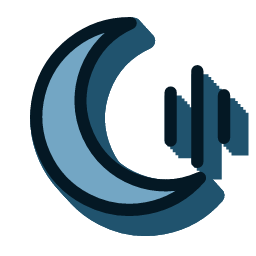
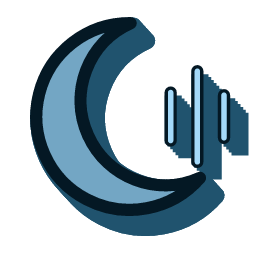
Refresh the crescent from Instrumenta d3f9c64: voice bars with a light core

Changed region(s): [[0.8438, 0.3438, 0.9062, 0.5625], [0.75, 0.25, 0.7812, 0.6562], [0.6562, 0.3438, 0.6875, 0.5625]]

diff --git a/app/static/brand/instrumenta-icons.js b/app/static/brand/instrumenta-icons.js
@@ -58,6 +58,7 @@
   // ---- Glyphs -------------------------------------------------------------------------------
   // A 48-unit grid. Class tokens say what each shape is, not how it looks:
   //   f / f2   fill areas (accent / light)       s      line (ink), solid  filled in ink
+  //   s2       a light core drawn inside an ink line, so a bar reads on a dark ground
   //   k0..k6   filled in another product's colour, in catalogue order after Instrumenta
   //   thin     a lighter line                    dt     detail, dropped at 16 and 24 px
   //   flat     casts no depth (floats in front)
@@ -93,7 +94,8 @@
       + '<path class="s" d="M13 41H35V36.5H31.5L29.5 22H32.5V10H27.5V14.5H25.5V10H22.5V14.5H20.5V10H15.5V22H18.5L16.5 36.5H13Z"/>'
       + '<path class="s dt" d="M18.5 22H29.5"/></g>',
     luna: '<path class="f" d="M26 6A17.5 17.5 0 1 0 39 35A14.5 14.5 0 0 1 26 6Z"/><path class="s" d="M26 6A17.5 17.5 0 1 0 39 35A14.5 14.5 0 0 1 26 6Z"/>'
-      + '<path class="s m-bar" d="M33.5 19V28"/><path class="s m-bar w2" d="M38.5 15V32"/><path class="s m-bar w4" d="M43.5 19.5V27.5"/>',
+      + '<path class="s m-bar" d="M33.5 19V28"/><path class="s m-bar w2" d="M38.5 15V32"/><path class="s m-bar w4" d="M43.5 19.5V27.5"/>'
+      + '<path class="s2 flat m-bar" d="M33.5 19V28"/><path class="s2 flat m-bar w2" d="M38.5 15V32"/><path class="s2 flat m-bar w4" d="M43.5 19.5V27.5"/>',
     forge3d: '<g class="m-forge"><path class="f2" d="M24 7L39 15.5L24 24L9 15.5Z"/><path class="s" d="M24 7L39 15.5L24 24L9 15.5Z"/></g>'
       + '<path class="f" d="M9 19V32L24 41V27.5Z"/><path class="f2" d="M39 19V32L24 41V27.5Z"/>'
       + '<path class="s" d="M9 19V32L24 41L39 32V19M24 27.5V41M9 19L24 27.5L39 19"/>',
@@ -144,6 +146,7 @@
       if (t.includes('f')) return ` fill="${col.accent}"`;
       if (t.includes('f2')) return ` fill="${col.light}"`;
       if (t.includes('solid')) return ` fill="${col.ink}"`;
+      if (t.includes('s2')) return ` fill="none" stroke="${col.light}" stroke-width="${(tier.line * 0.45).toFixed(2)}"${round}`;
       if (t.includes('s')) return ` fill="none" stroke="${col.ink}" stroke-width="${t.includes('thin') ? tier.thin : tier.line}"${round}`;
       return '';
     });

diff --git a/docs/brand/README.md b/docs/brand/README.md
@@ -1,6 +1,6 @@
 # Brand v2 in Luna
 
-Aligned 2026-10-06 against Instrumenta `brand/` at commit `87f846b` (`brand/ALIGNMENT.md`). Luna was
+Aligned 2026-10-06 against Instrumenta `brand/` at commit `d3f9c64` (`brand/ALIGNMENT.md`). Luna was
 the last product in the suite to be aligned, and the largest visual change: its deliberate 1-bit,
 black-and-white terminal look is replaced entirely. That look (icon and stylesheet) stays archived in
 Instrumenta's `brand/archive/v1/luna/` in case it is ever wanted back.
